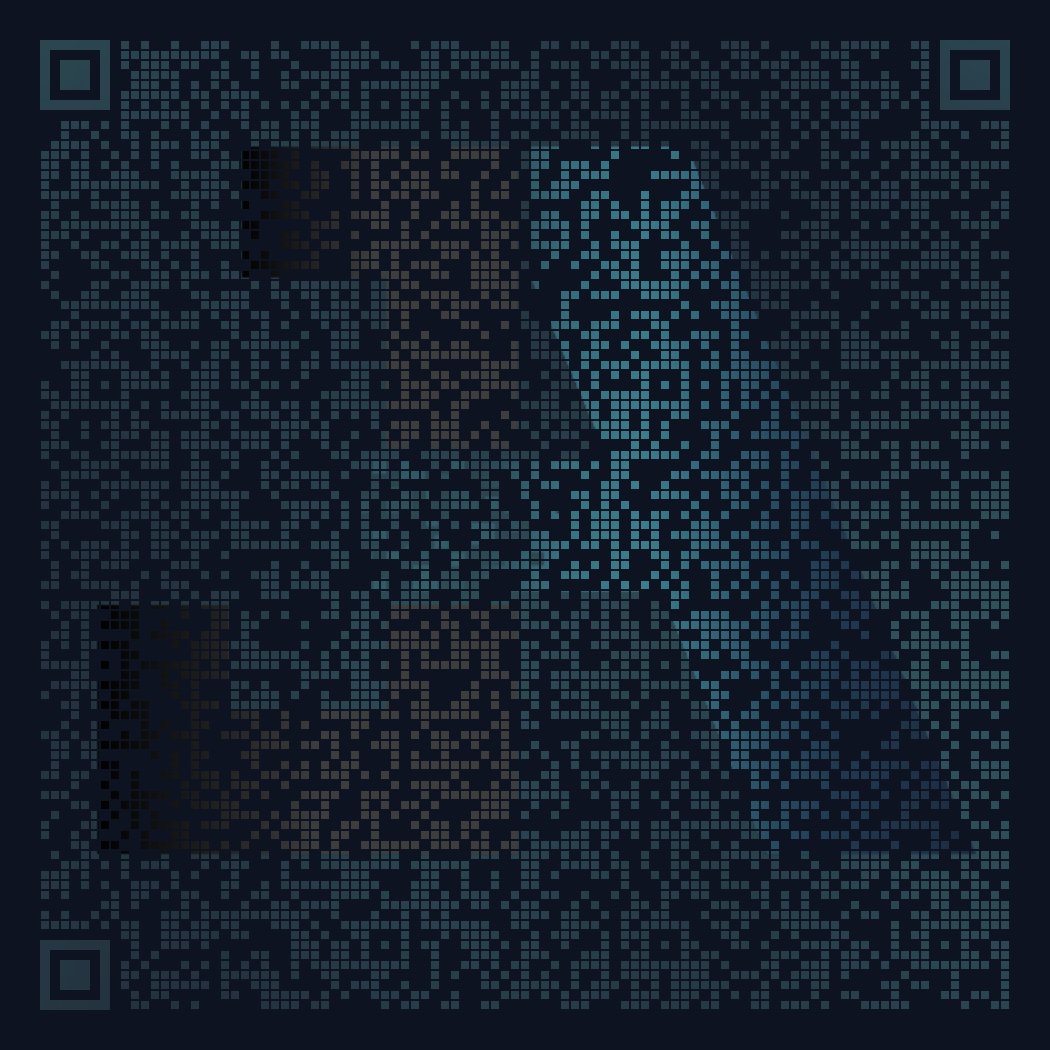
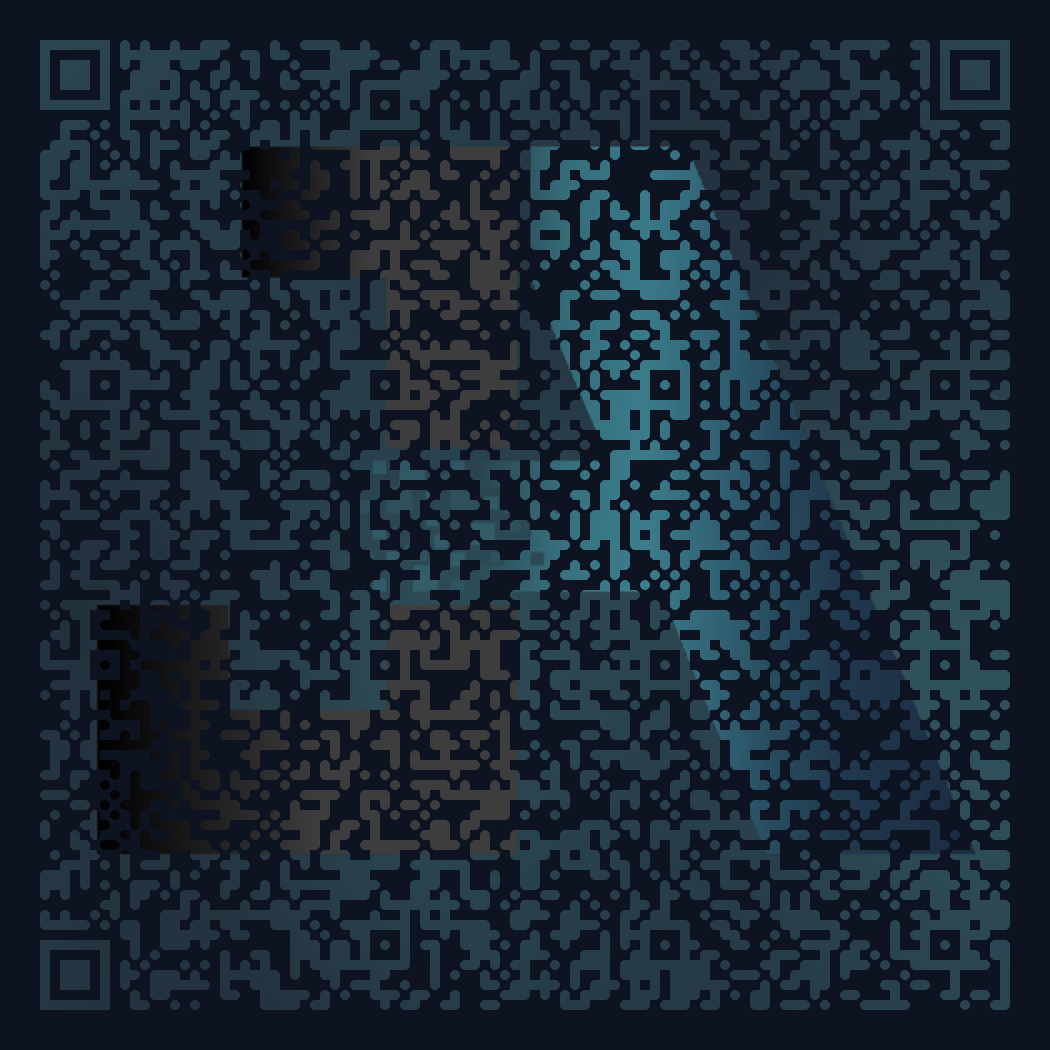
Moved from squared to rounded module;

diff --git a/enhanced_qr.py b/enhanced_qr.py
@@ -1,9 +1,10 @@
-import os
 import argparse
+import os
+
 import qrcode
 from qrcode.image.styledpil import StyledPilImage
 from qrcode.image.styles.colormasks import ImageColorMask
-from qrcode.image.styles.moduledrawers import GappedSquareModuleDrawer
+from qrcode.image.styles.moduledrawers import RoundedModuleDrawer
 
 dir_path = os.path.dirname(os.path.realpath(__file__))
 generated_image_path = os.path.join(dir_path, 'generated.png')
@@ -25,7 +26,7 @@ class EnhancedQR:
         qr = qrcode.QRCode(version=None, error_correction=qrcode.constants.ERROR_CORRECT_H, border=4)
         qr.add_data(padded_content)
         qr.make(fit=True)
-        img = qr.make_image(image_factory=StyledPilImage, module_drawer=GappedSquareModuleDrawer(),
+        img = qr.make_image(image_factory=StyledPilImage, module_drawer=RoundedModuleDrawer(),
                             color_mask=ImageColorMask(color_mask_path=image_path, back_color=back_color))
         img.save(generated_image_path)
 
